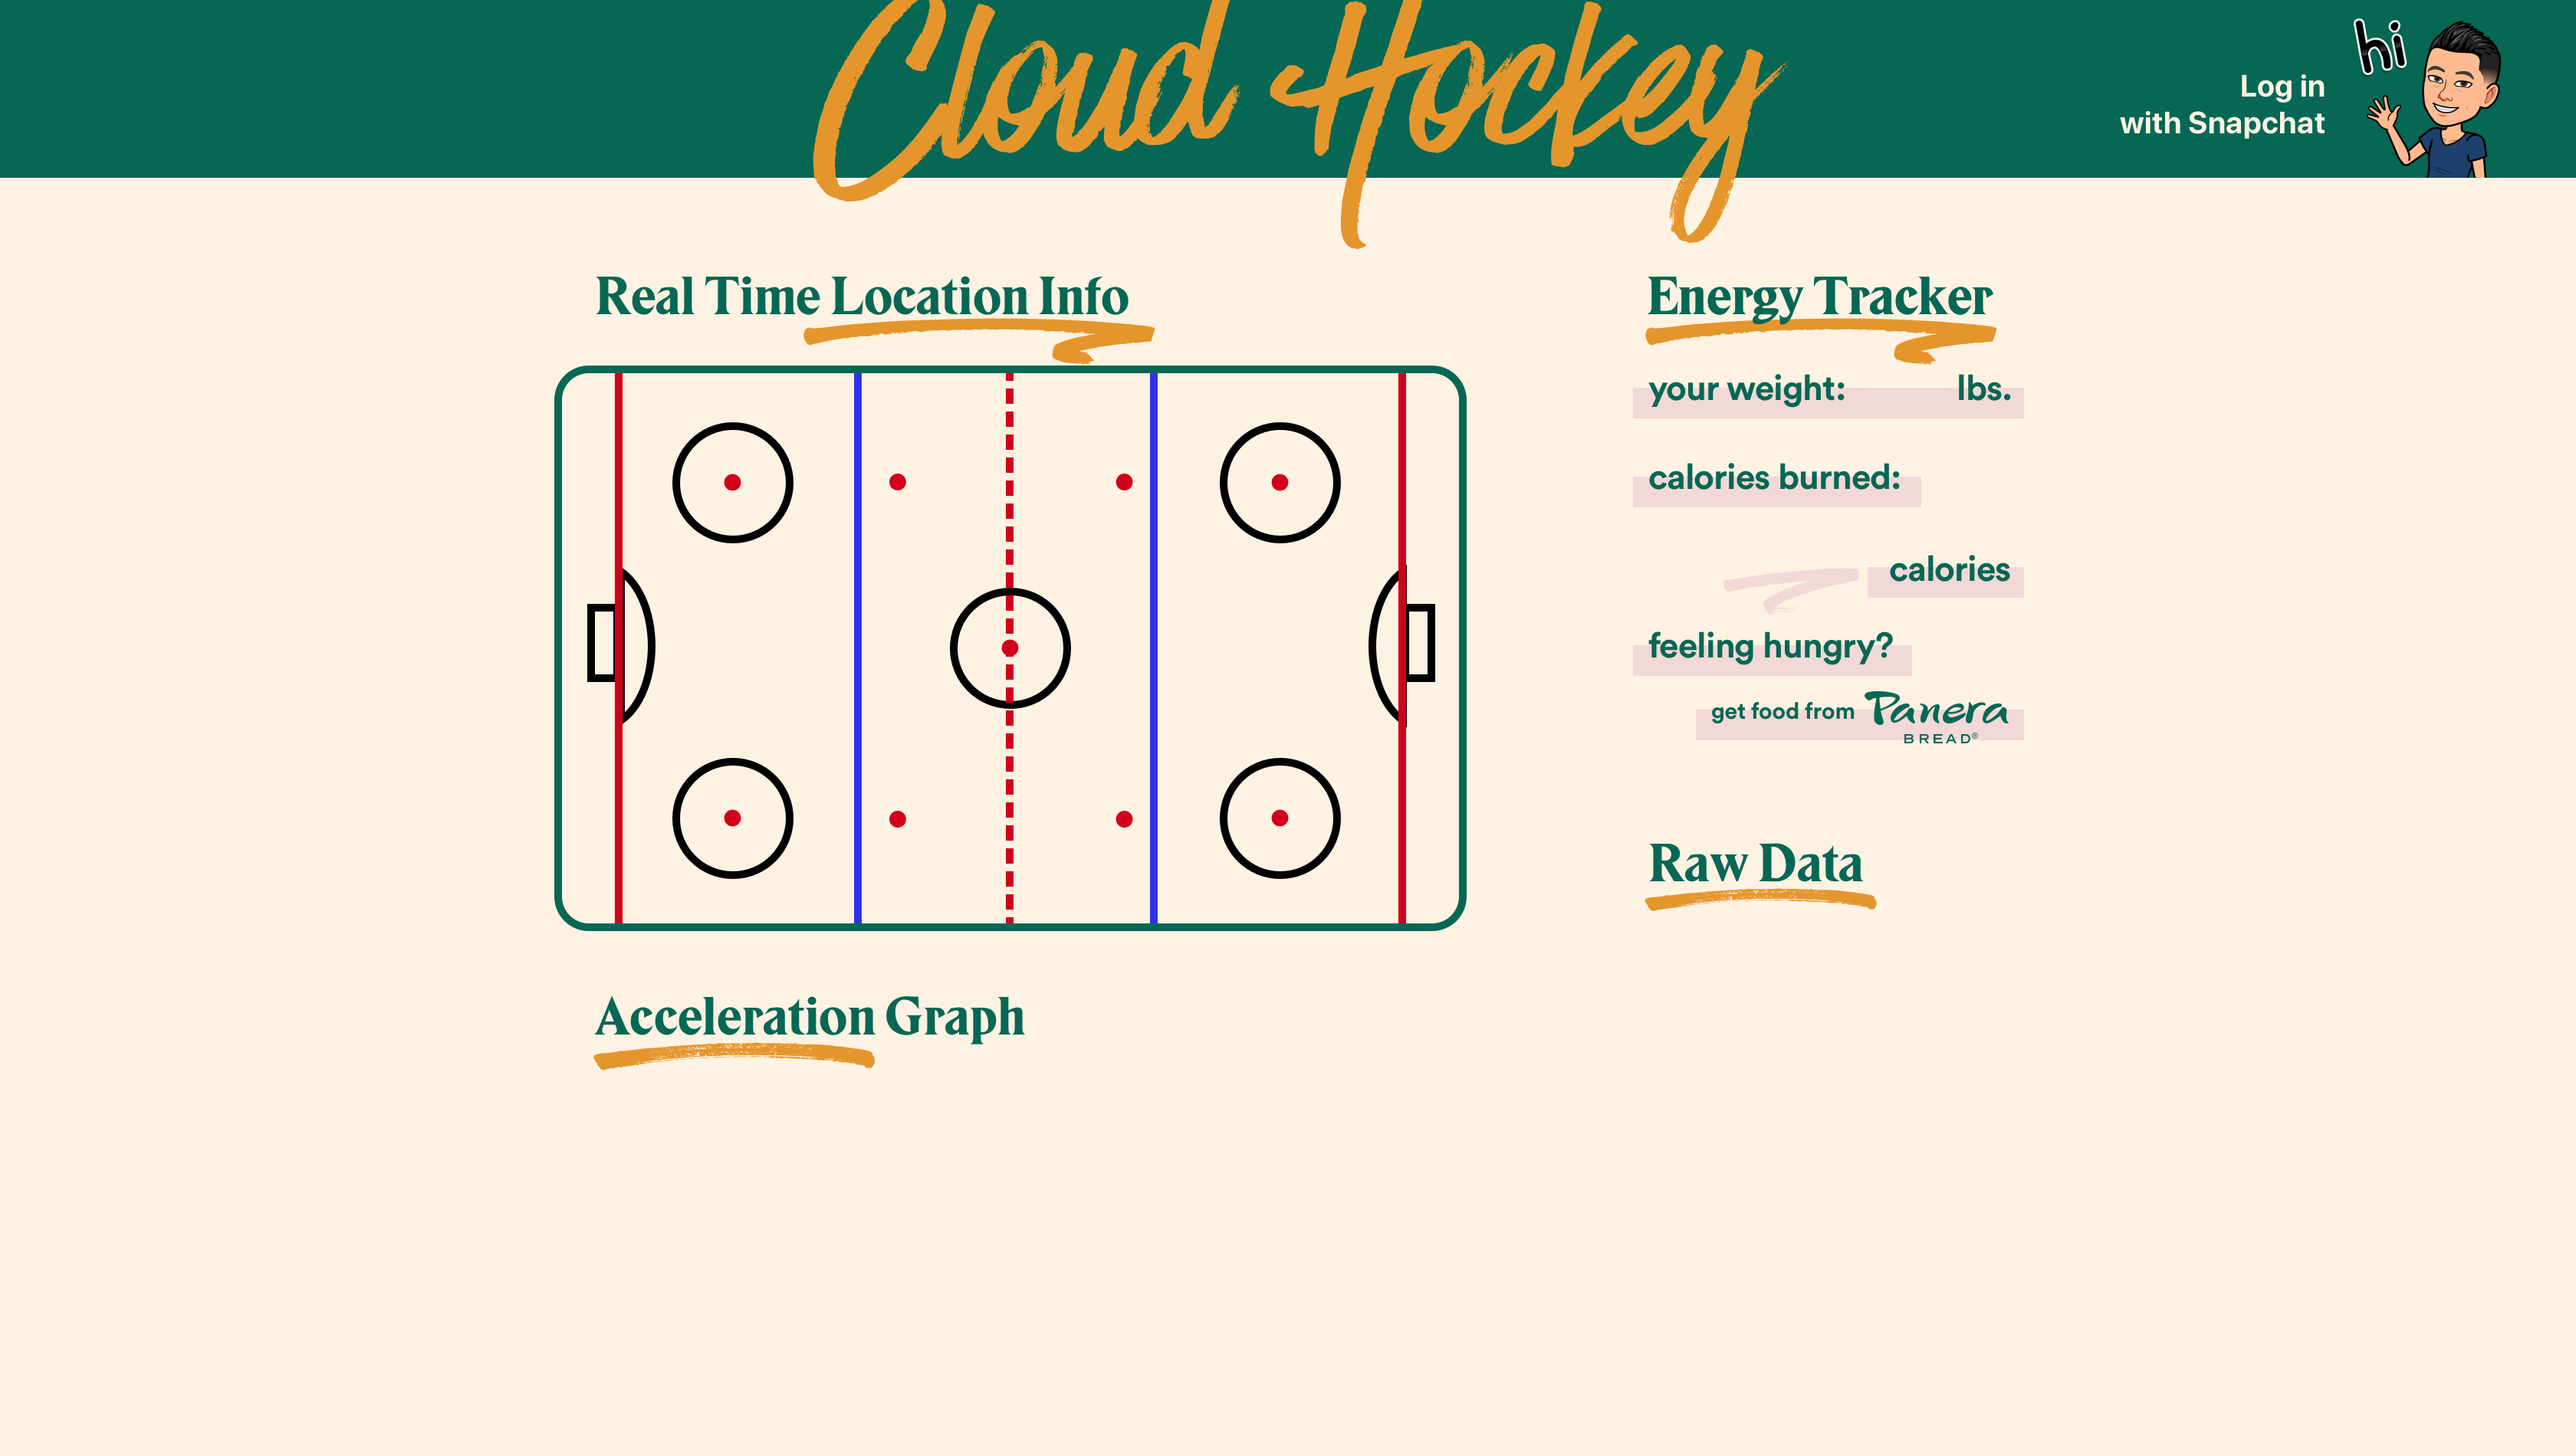
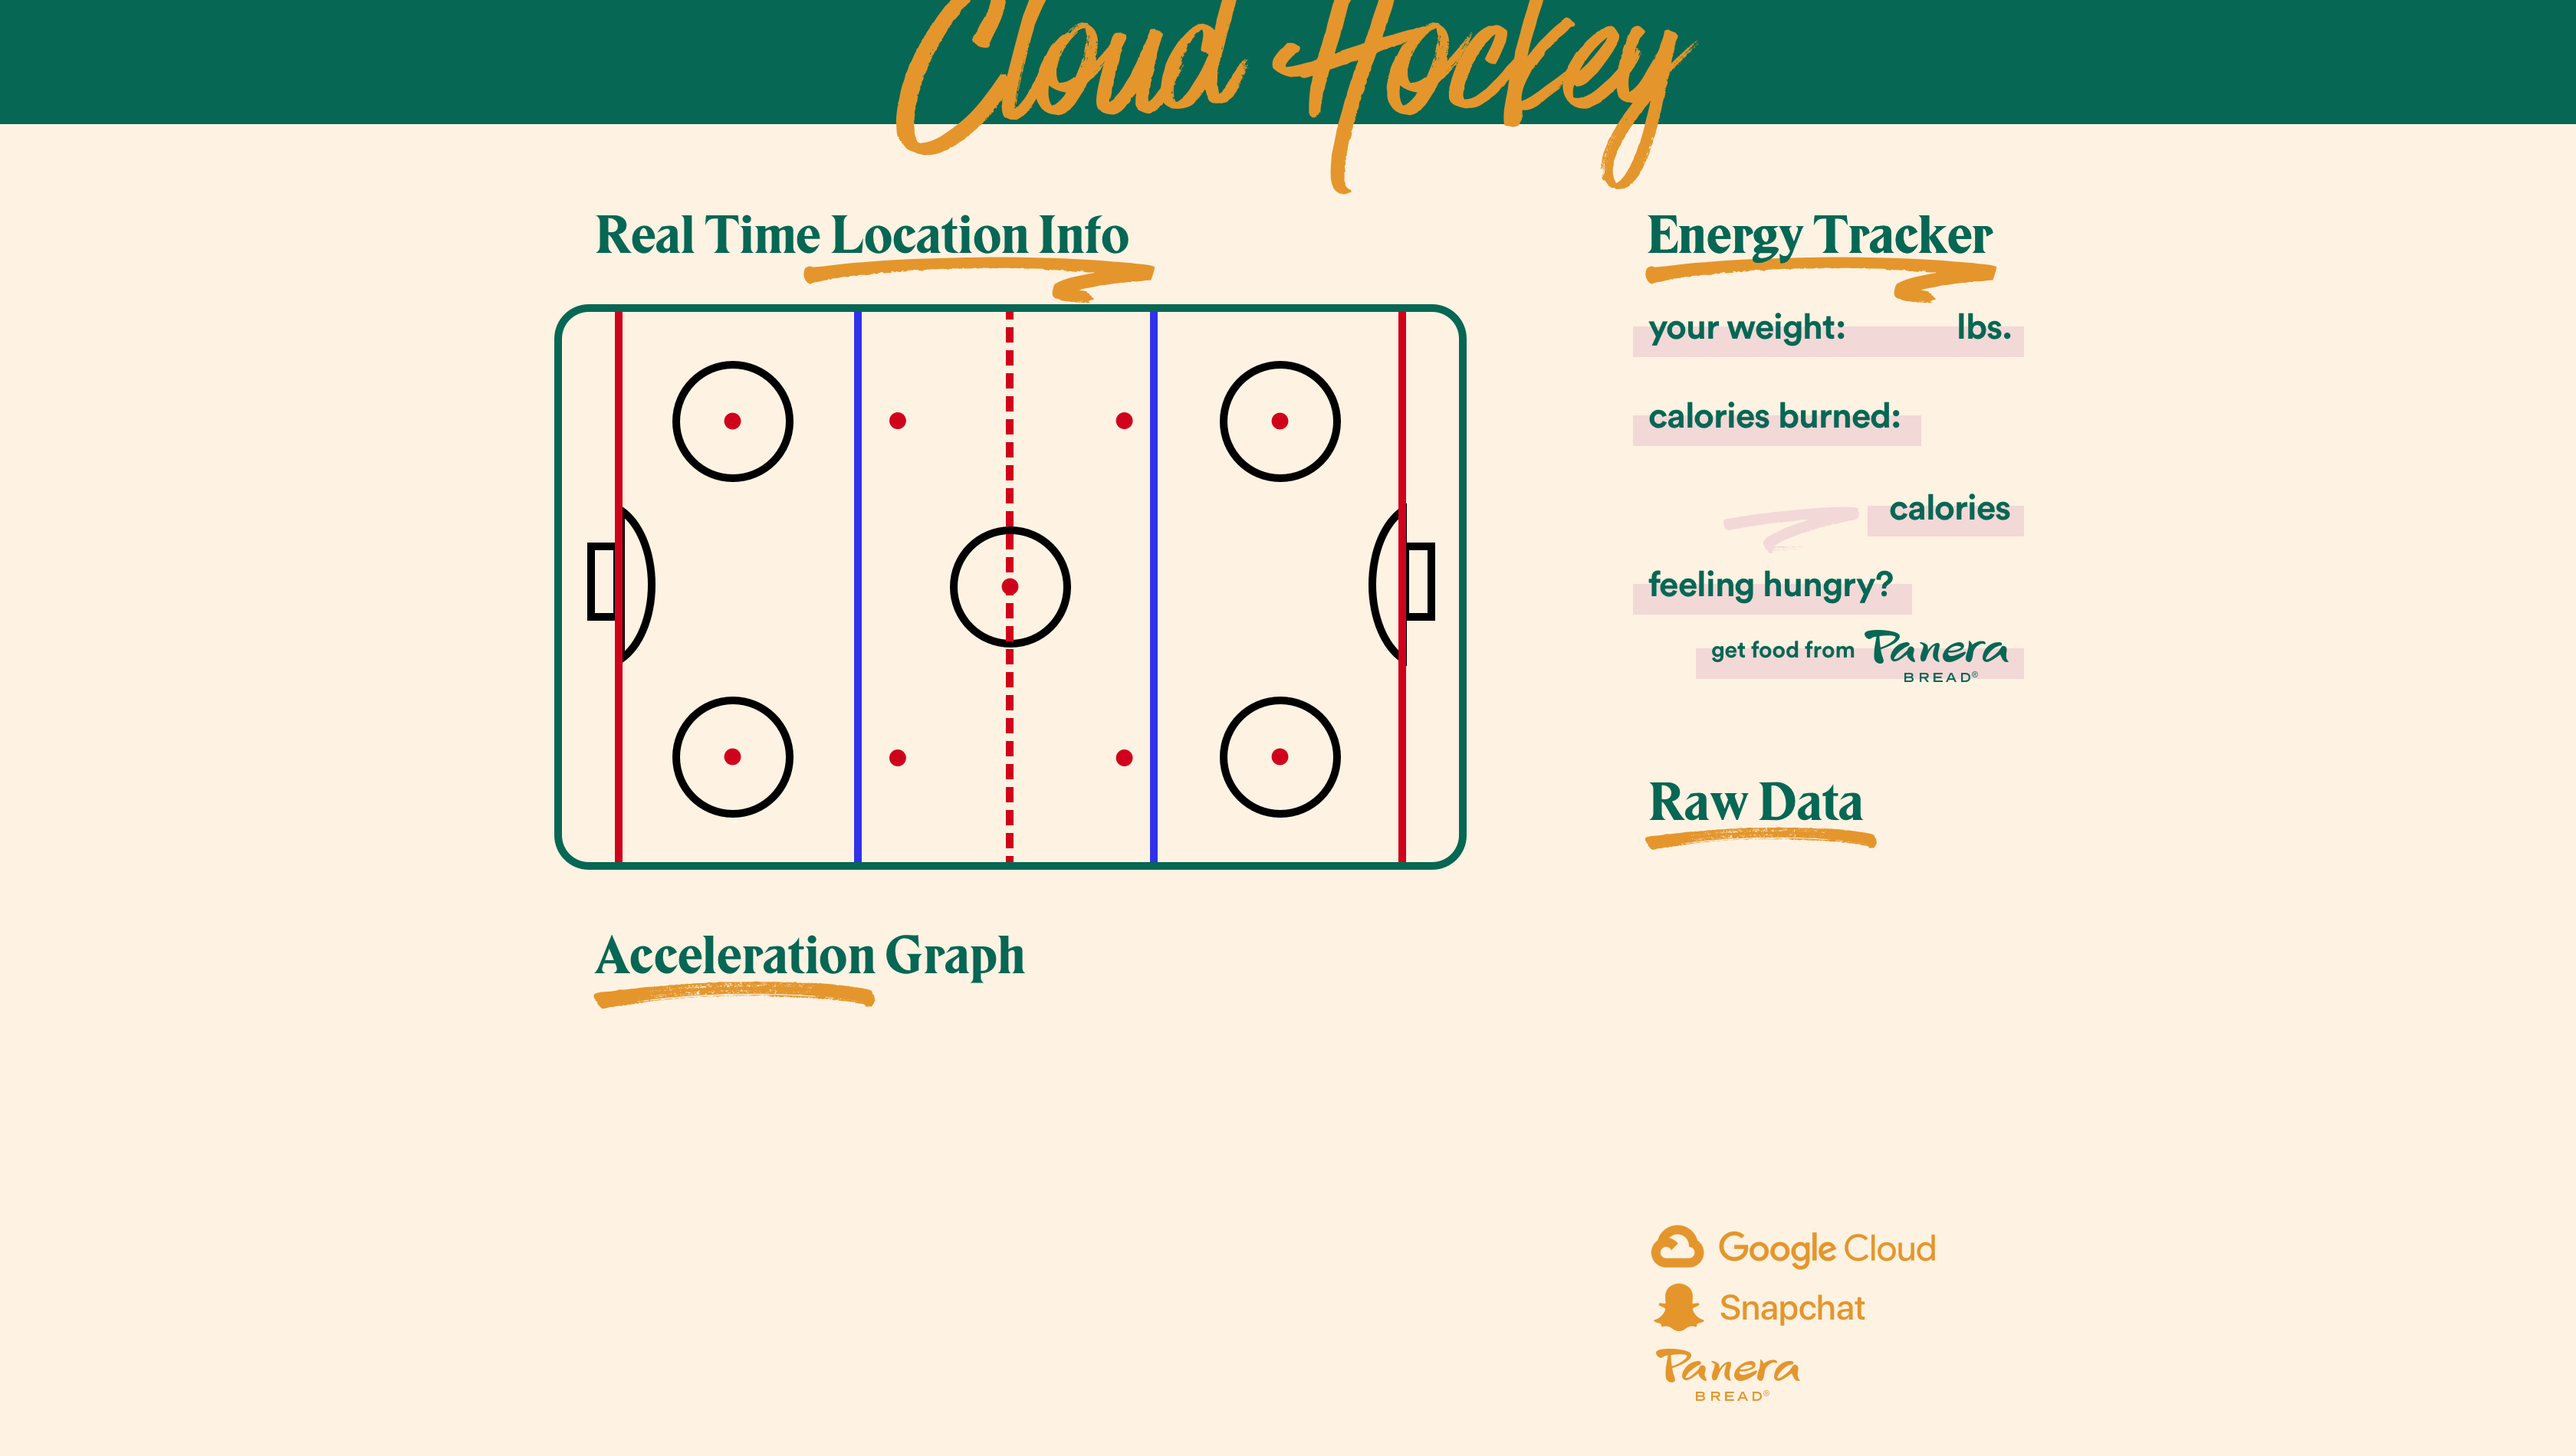
updated design

diff --git a/www/index.html b/www/index.html
@@ -55,8 +55,19 @@
     <canvas id="myChart"></canvas>
   </div>
 
-  <img id="snakeHead" src="snakeHead.png" style="display: none;" />
+  <img id="snakeHead" src="assets/me.png" style="display: none;" />
   <!-- the rest of your beautiful code goes here -->
+
+  <p>
+    <a href="https://accounts.snapchat.com">
+      <img
+        src="assets/snap.png"
+        alt="login"
+        width="286px"
+        style="position: absolute; top: 0px; right: 0px;"
+      />
+    </a>
+  </p>
 </body>
 
 <script>
@@ -69,7 +80,7 @@
   var db = firebase.firestore();
   var indexX = 316;
   var indexY = 159;
-  var scale = 30;
+  var scale = 22;
   var velocityX = 0;
   var velocityZ = 0;
   var timeStamp = 0;
@@ -149,7 +160,7 @@
         if ((indexYT > 0.2) | (indexYT < -0.2)) {
           indexY += indexYT * scale;
         }
-        context.drawImage(document.getElementById("snakeHead"), indexX, indexY);
+        context.drawImage(document.getElementById("snakeHead"), indexX, indexY, 60, 60);
 
         totalTime += (doc.data().timestamp - timeStamp) / 1000;
         calories = (548 / 3600) * totalTime;

diff --git a/www/style_new.css b/www/style_new.css
@@ -38,29 +38,29 @@ p {
 .block1 {
   position: absolute;
   left: 1075px;
-  top: 605px;
+  top: 565px;
 }
 .block2 {
   position: absolute;
   left: 330px;
-  top: 255px;
+  top: 215px;
 }
 .block3 {
   position: absolute;
   left: 355px;
-  top: 715px;
+  top: 665px;
   width: 590px;
 }
 .block_cal {
   position: absolute;
-  left: 1150px;
-  top: 305px;
+  left: 1147px;
+  top: 265px;
   font-size: 60px;
 }
 .block_food {
   position: absolute;
   left: 1100px;
-  top: 465px;
+  top: 425px;
   font-size: 60px;
   opacity: 0;
 }
